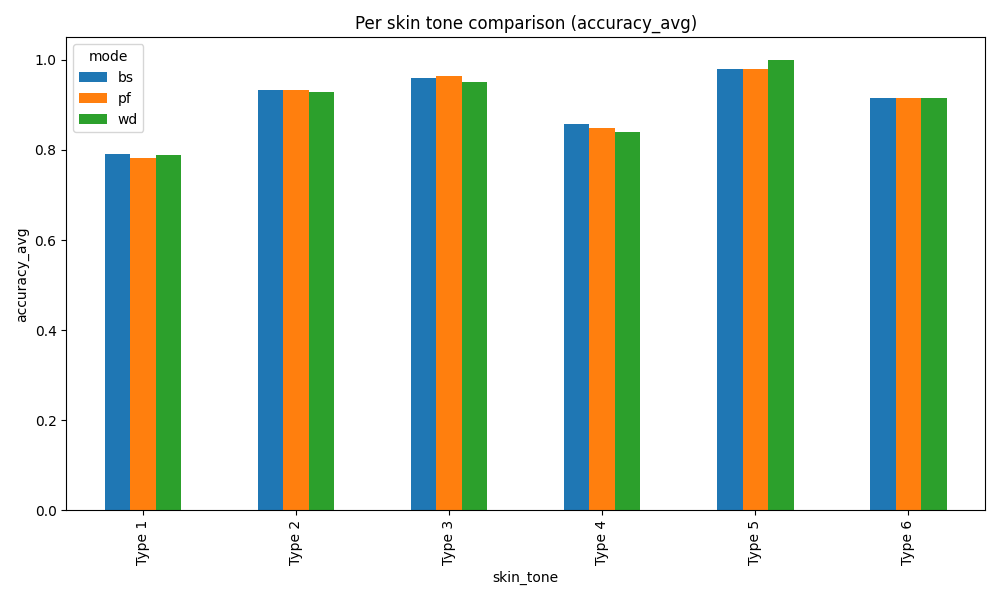
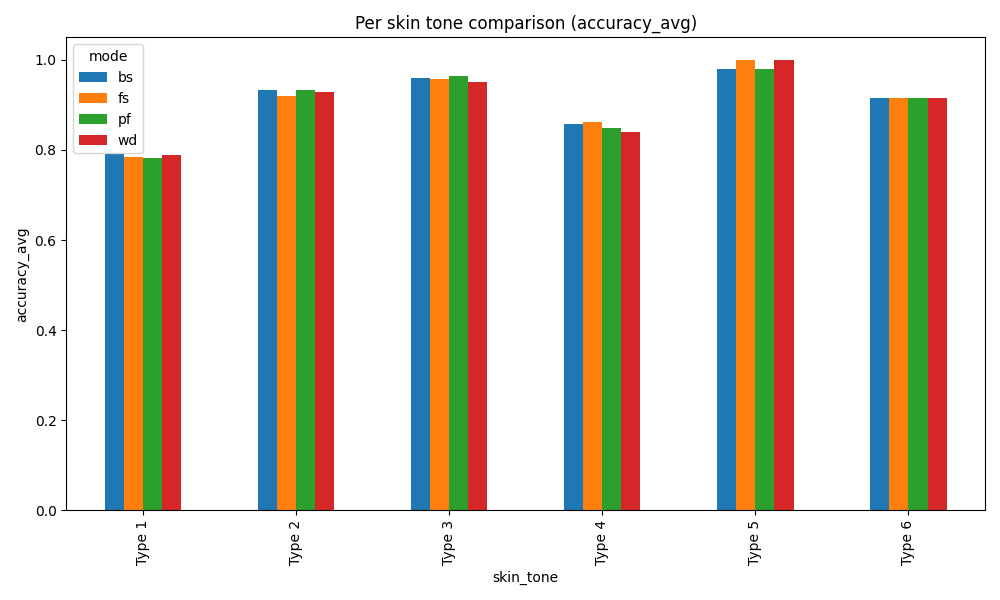
add new results

diff --git a/code/compare_skin_tone.py b/code/compare_skin_tone.py
@@ -1,0 +1,67 @@
+import os
+import pandas as pd
+import matplotlib.pyplot as plt
+
+MODES = ["bs", "fs", "wd", "pf"]
+
+def find_csv(base_output_dir, mode):
+    testing_dir = os.path.join(base_output_dir, "results", mode, "testing")
+    filename = f"testing_avg_per_skin_tone_{mode}.csv"
+    path = os.path.join(testing_dir, filename)
+    return path if os.path.exists(path) else None
+
+def load_mode_df(base_output_dir, mode):
+    path = find_csv(base_output_dir, mode)
+    if path is None:
+        return None
+    df = pd.read_csv(path)
+    df["mode"] = mode
+    return df
+
+def combine_all(base_output_dir):
+    dfs = []
+    for m in MODES:
+        df = load_mode_df(base_output_dir, m)
+        if df is not None and not df.empty:
+            dfs.append(df)
+    if not dfs:
+        return None
+    return pd.concat(dfs, ignore_index=True)
+
+def save_combined(df, base_output_dir):
+    out_dir = os.path.join(base_output_dir, "results", "comparison")
+    os.makedirs(out_dir, exist_ok=True)
+    out_csv = os.path.join(out_dir, "testing_avg_per_skin_tone_all_modes.csv")
+    df.to_csv(out_csv, index=False)
+    return out_csv
+
+def plot_comparison(df, base_output_dir, metric="f1_macro_avg"):
+    out_dir = os.path.join(base_output_dir, "results", "comparison")
+    os.makedirs(out_dir, exist_ok=True)
+    pv = df.pivot_table(index="skin_tone", columns="mode", values=metric)
+    pv = pv.reindex(sorted(pv.index))
+    ax = pv.plot(kind="bar", figsize=(10, 6))
+    ax.set_title(f"Per skin tone comparison ({metric})")
+    ax.set_ylabel(metric)
+    ax.set_xlabel("skin_tone")
+    plt.tight_layout()
+    out_png = os.path.join(out_dir, f"comparison_{metric}.png")
+    plt.savefig(out_png)
+    return out_png
+
+def main(base_output_dir=None):
+    if base_output_dir is None:
+        base_output_dir = os.path.abspath(os.path.join(os.path.dirname(__file__), "..", "data"))
+    df = combine_all(base_output_dir)
+    if df is None:
+        print("No testing_avg_per_skin_tone CSVs found for any mode.")
+        return
+    out_csv = save_combined(df, base_output_dir)
+    print(f"Combined CSV saved: {out_csv}")
+    img1 = plot_comparison(df, base_output_dir, metric="f1_macro_avg")
+    print(f"Figure saved: {img1}")
+    img2 = plot_comparison(df, base_output_dir, metric="accuracy_avg")
+    print(f"Figure saved: {img2}")
+
+if __name__ == "__main__":
+    main()
